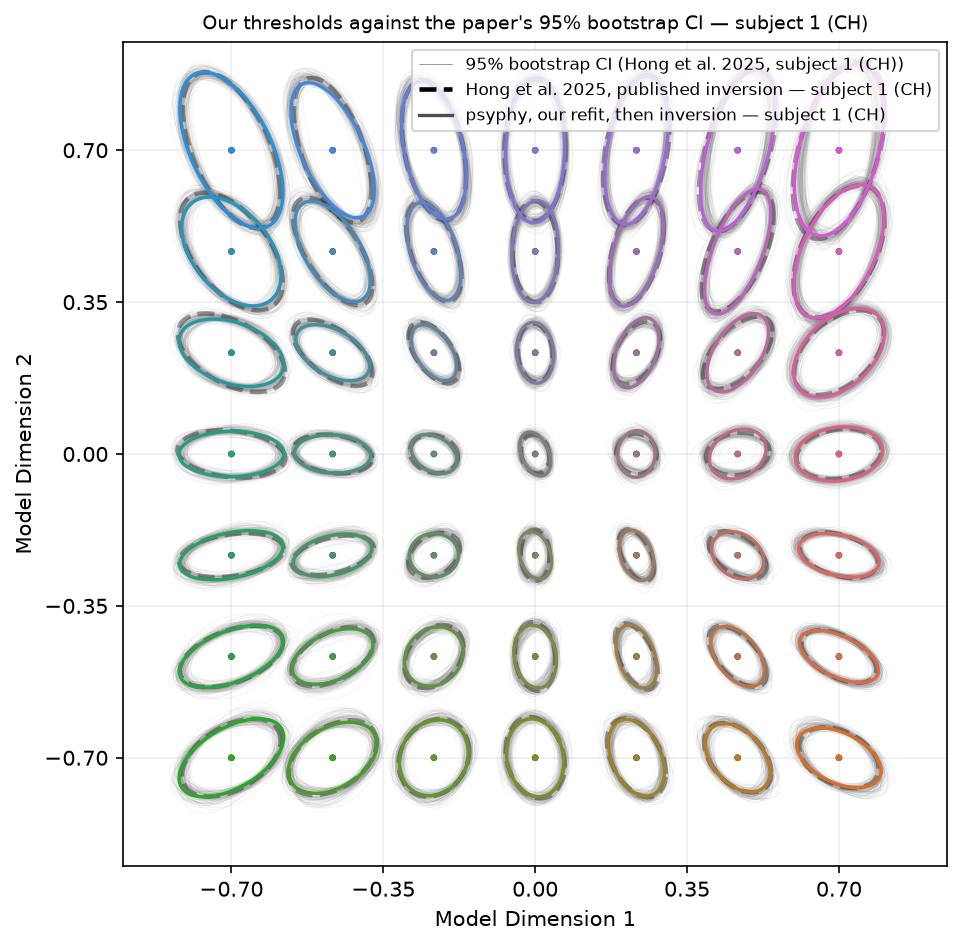
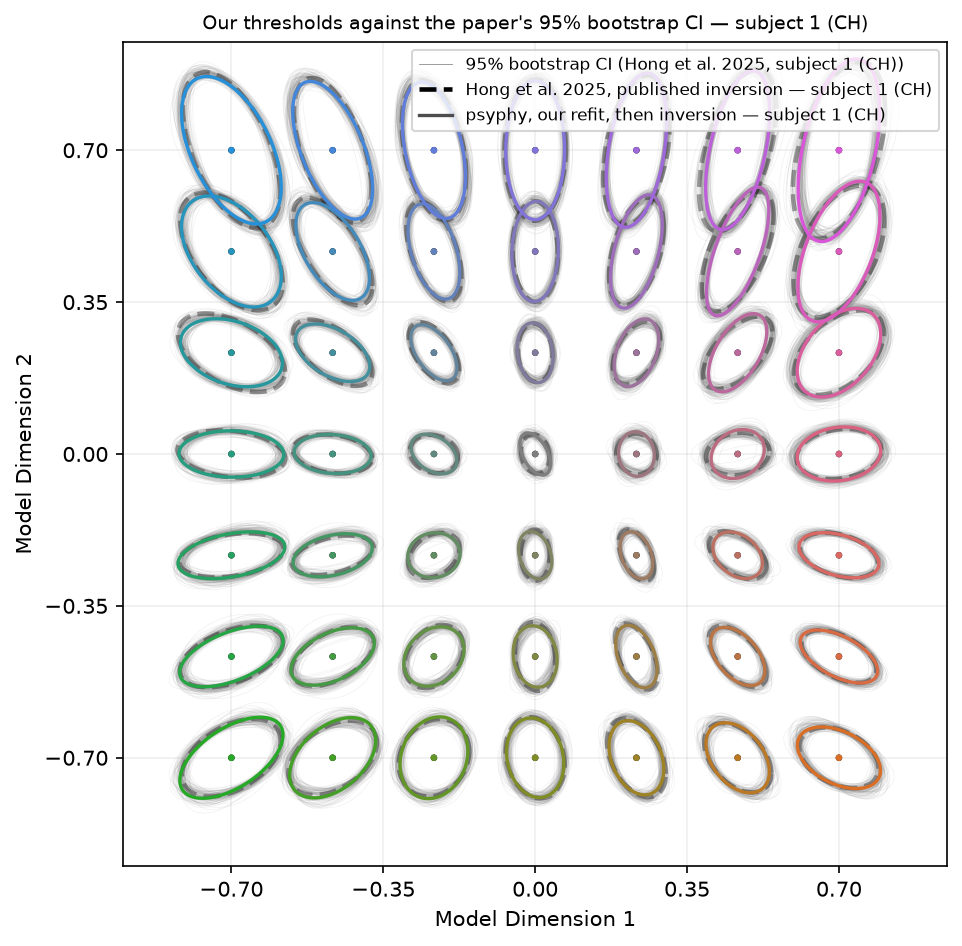
hong figures reproduced and nrestarts set to 3

diff --git a/src/psyphy/data/published/hong2025.py b/src/psyphy/data/published/hong2025.py
@@ -149,8 +149,8 @@ PAPER_HYPERPARAMS: Mapping[str, Any] = {
     "learning_rate": 1e-4,  # gradient step size
     "momentum": 0.2,  # 'heavy-ball' momentum
     "total_steps": 1500,  # gradient steps per restart
-    "n_restarts": 1,  # independent prior draws; the lowest final loss wins
-    # Hong et al tried 3, but 1 is enough to reproduce the published fit.
+    "n_restarts": 3,  # independent prior draws; the lowest final loss wins
+    # Hong et al tried 3.
     # -- Reporting ---------------------------------------------------------
     # The criterion the paper's thresholds are defined at: midway between
     # chance (1/3) and perfect, for a 3-alternative task
